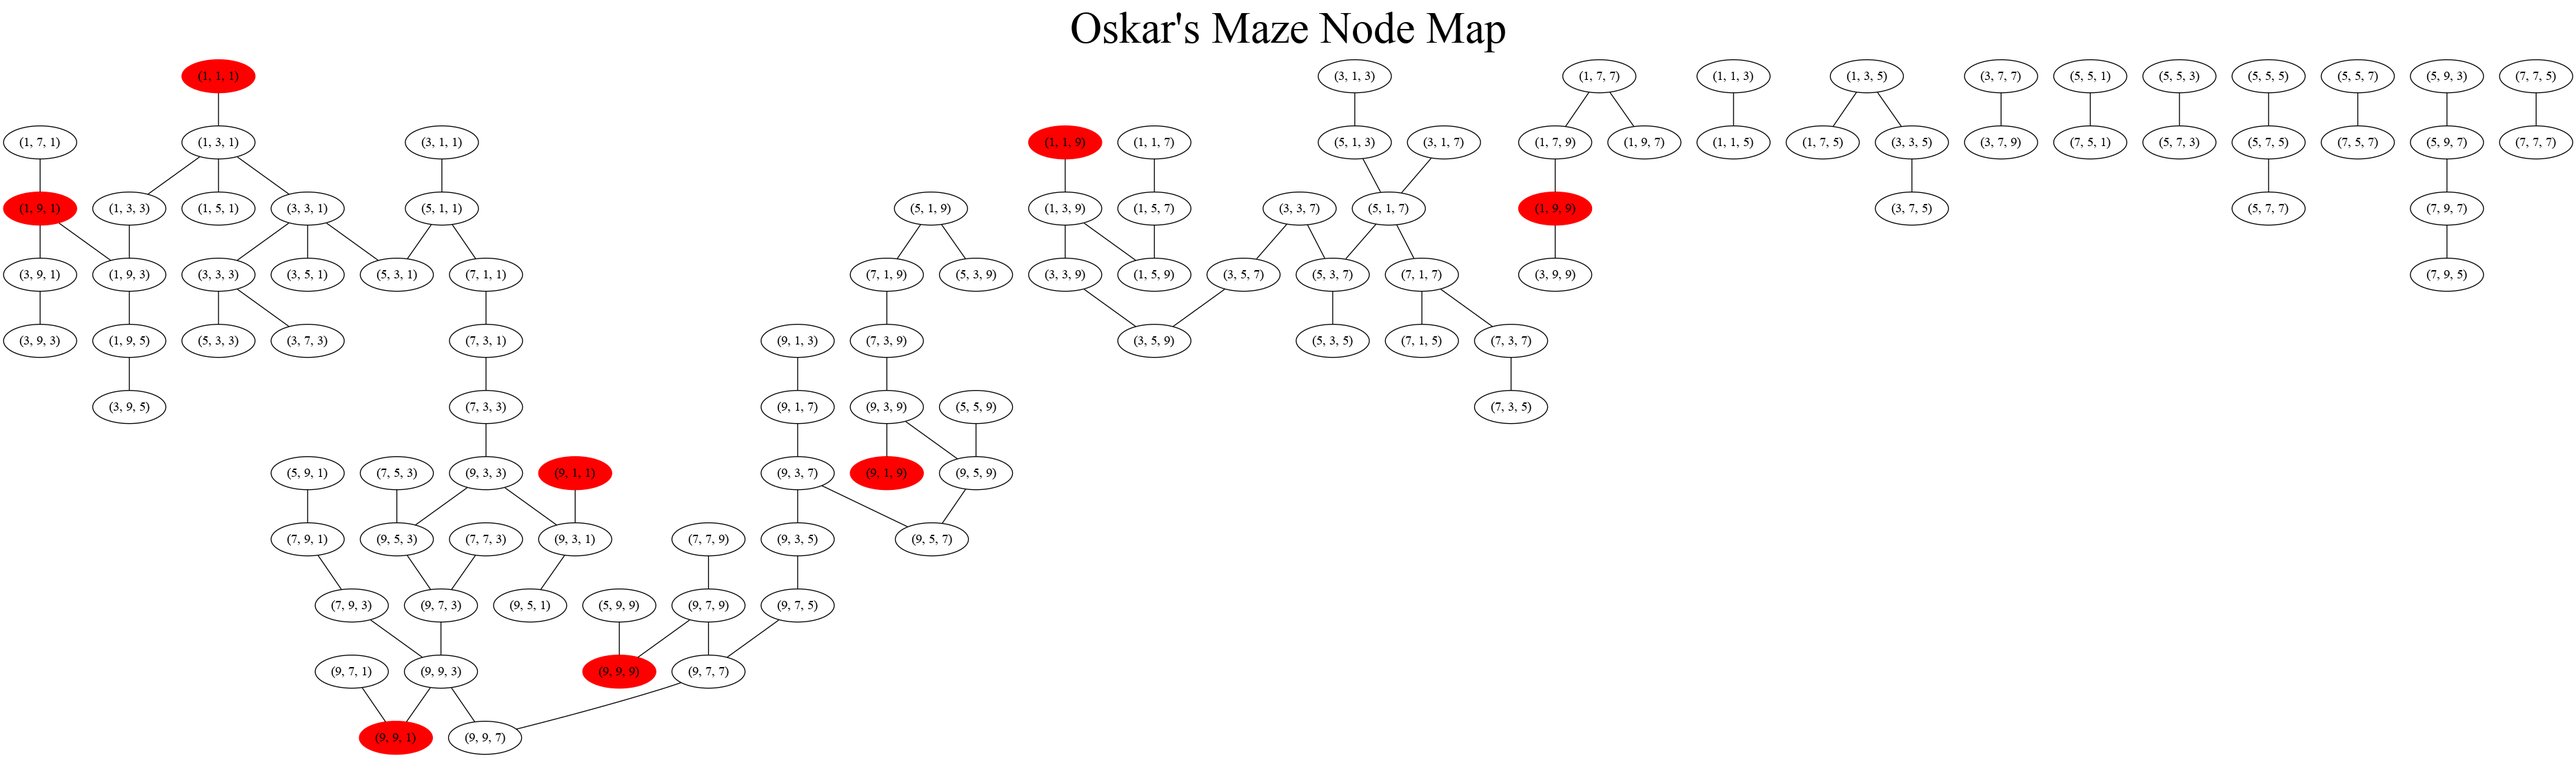
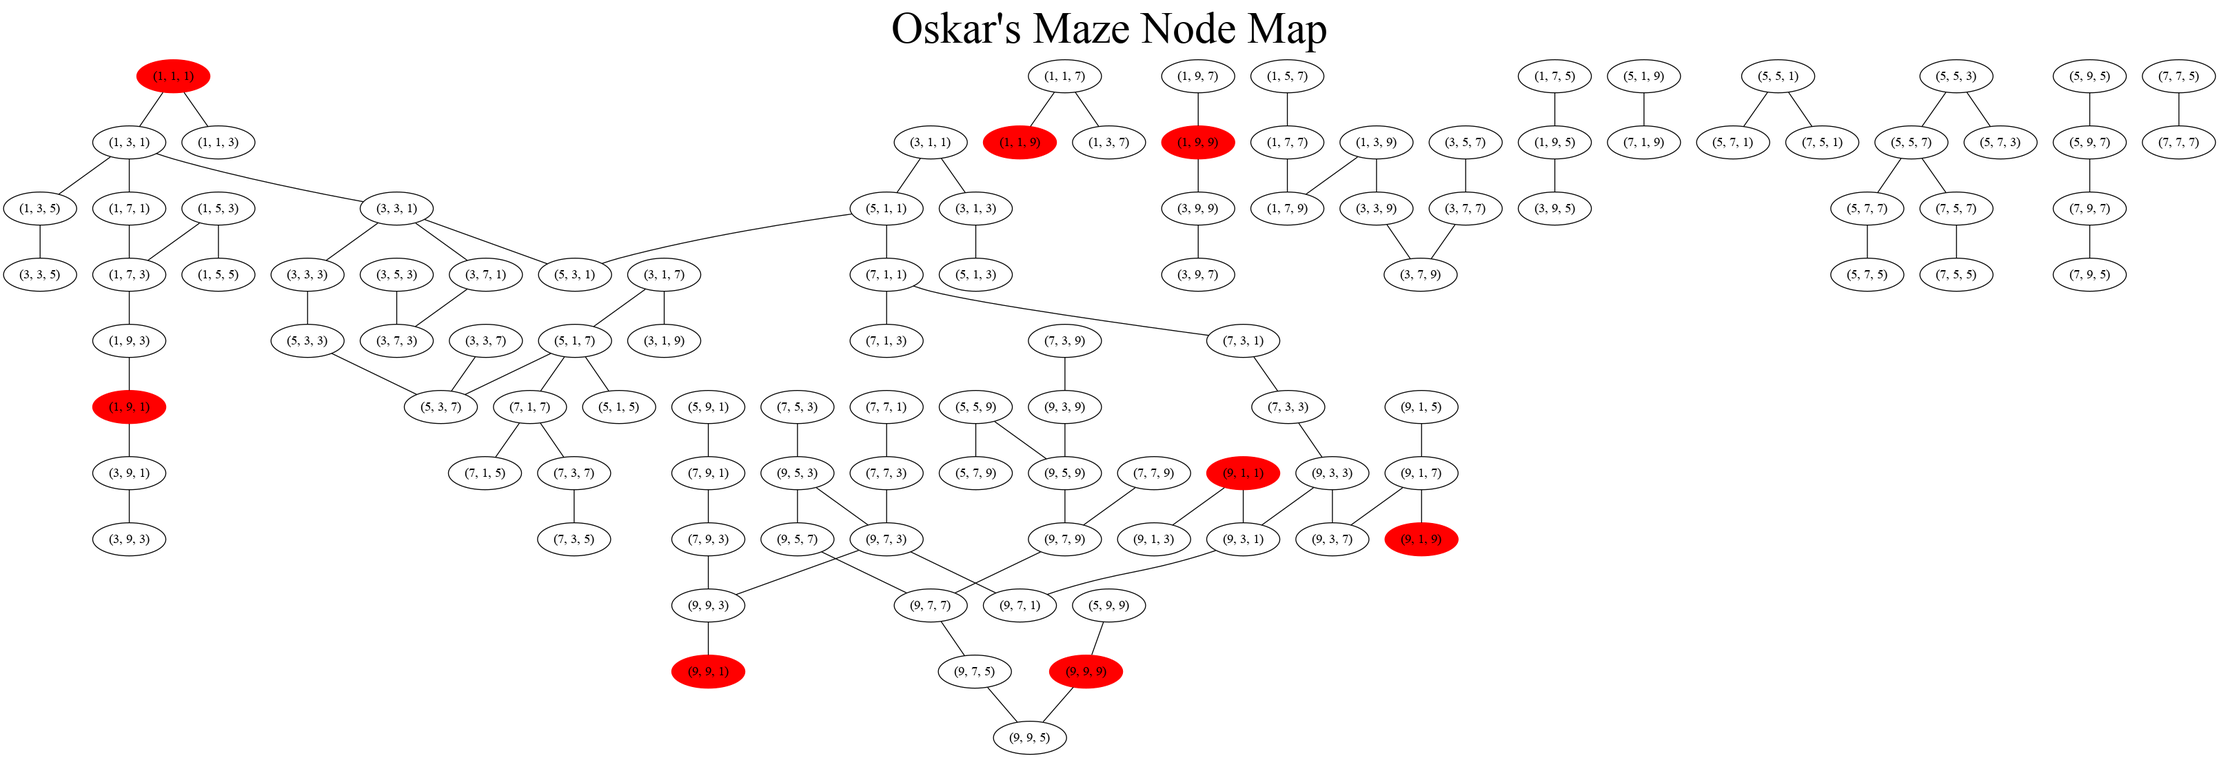
Modify axes and data to match the commercial product

diff --git a/python/oskars_maze.py b/python/oskars_maze.py
@@ -16,7 +16,8 @@ import numpy as np
 from numpy.ma import make_mask
 
 
-# TODO: Done in haste. Check that these aren't flipped in some way.
+# Note: The commercial product does not have labeled axes.
+#       The labeling of axes used here was chosen arbitrarily.
 class OskarsMaze:
     # Front side
     xy = """
@@ -35,29 +36,29 @@ class OskarsMaze:
     # Left side
     yz = """
         ***********
-        * *     * *
-        * ***** * *
-        *   *   * *
-        * * * * * *
-        * * * *   *
-        *** * *****
-        * * *     *
-        * * *** * *
+        *   *     *
+        * ***** ***
         *       * *
+        * ******* *
+        * *     * *
+        * * *** * *
+        *   *     *
+        *** * *****
+        *   *     *
         ***********"""
 
-    # Top side
-    xz = """
+    # Bottom side
+    zx = """
         ***********
-        *     *   *
+        *       * *
+        * * *** * *
+        * *   *   *
         * *** *** *
-        *   * *   *
-        * * *** ***
+        *   * * * *
+        ***** * * *
         * *     * *
-        * ***** * *
-        *   *   * *
-        *** ***** *
-        *         *
+        * * ***** *
+        *   *     *
         ***********"""
 
 
@@ -70,12 +71,12 @@ def get_corners():
     return [(x, y, z) for x in [1, 9] for y in [1, 9] for z in [1, 9]]
 
 
-def get_cube(xy, yz, xz):
+def get_cube(xy, yz, zx):
     xyz = np.zeros((11, 11, 11), dtype=bool)
     for x in range(0, 11):
         for y in range(0, 11):
             for z in range(0, 11):
-                if xy[(x, y)] or yz[(y, z)] or xz[(x, z)]:
+                if xy[(x, y)] or yz[(y, z)] or zx[(z, x)]:
                     xyz[(x, y, z)] = True
     return xyz
 
@@ -126,8 +127,8 @@ def get_panel(s):
 def make_maze(do_remove_nonbranching_nodes=True):
     panel_xy = get_panel(OskarsMaze.xy)
     panel_yz = get_panel(OskarsMaze.yz)
-    panel_xz = get_panel(OskarsMaze.xz)
-    cube = get_cube(panel_xy, panel_yz, panel_xz)
+    panel_zx = get_panel(OskarsMaze.zx)
+    cube = get_cube(panel_xy, panel_yz, panel_zx)
     maze = get_maze(cube, do_remove_nonbranching_nodes)
     return maze
 
